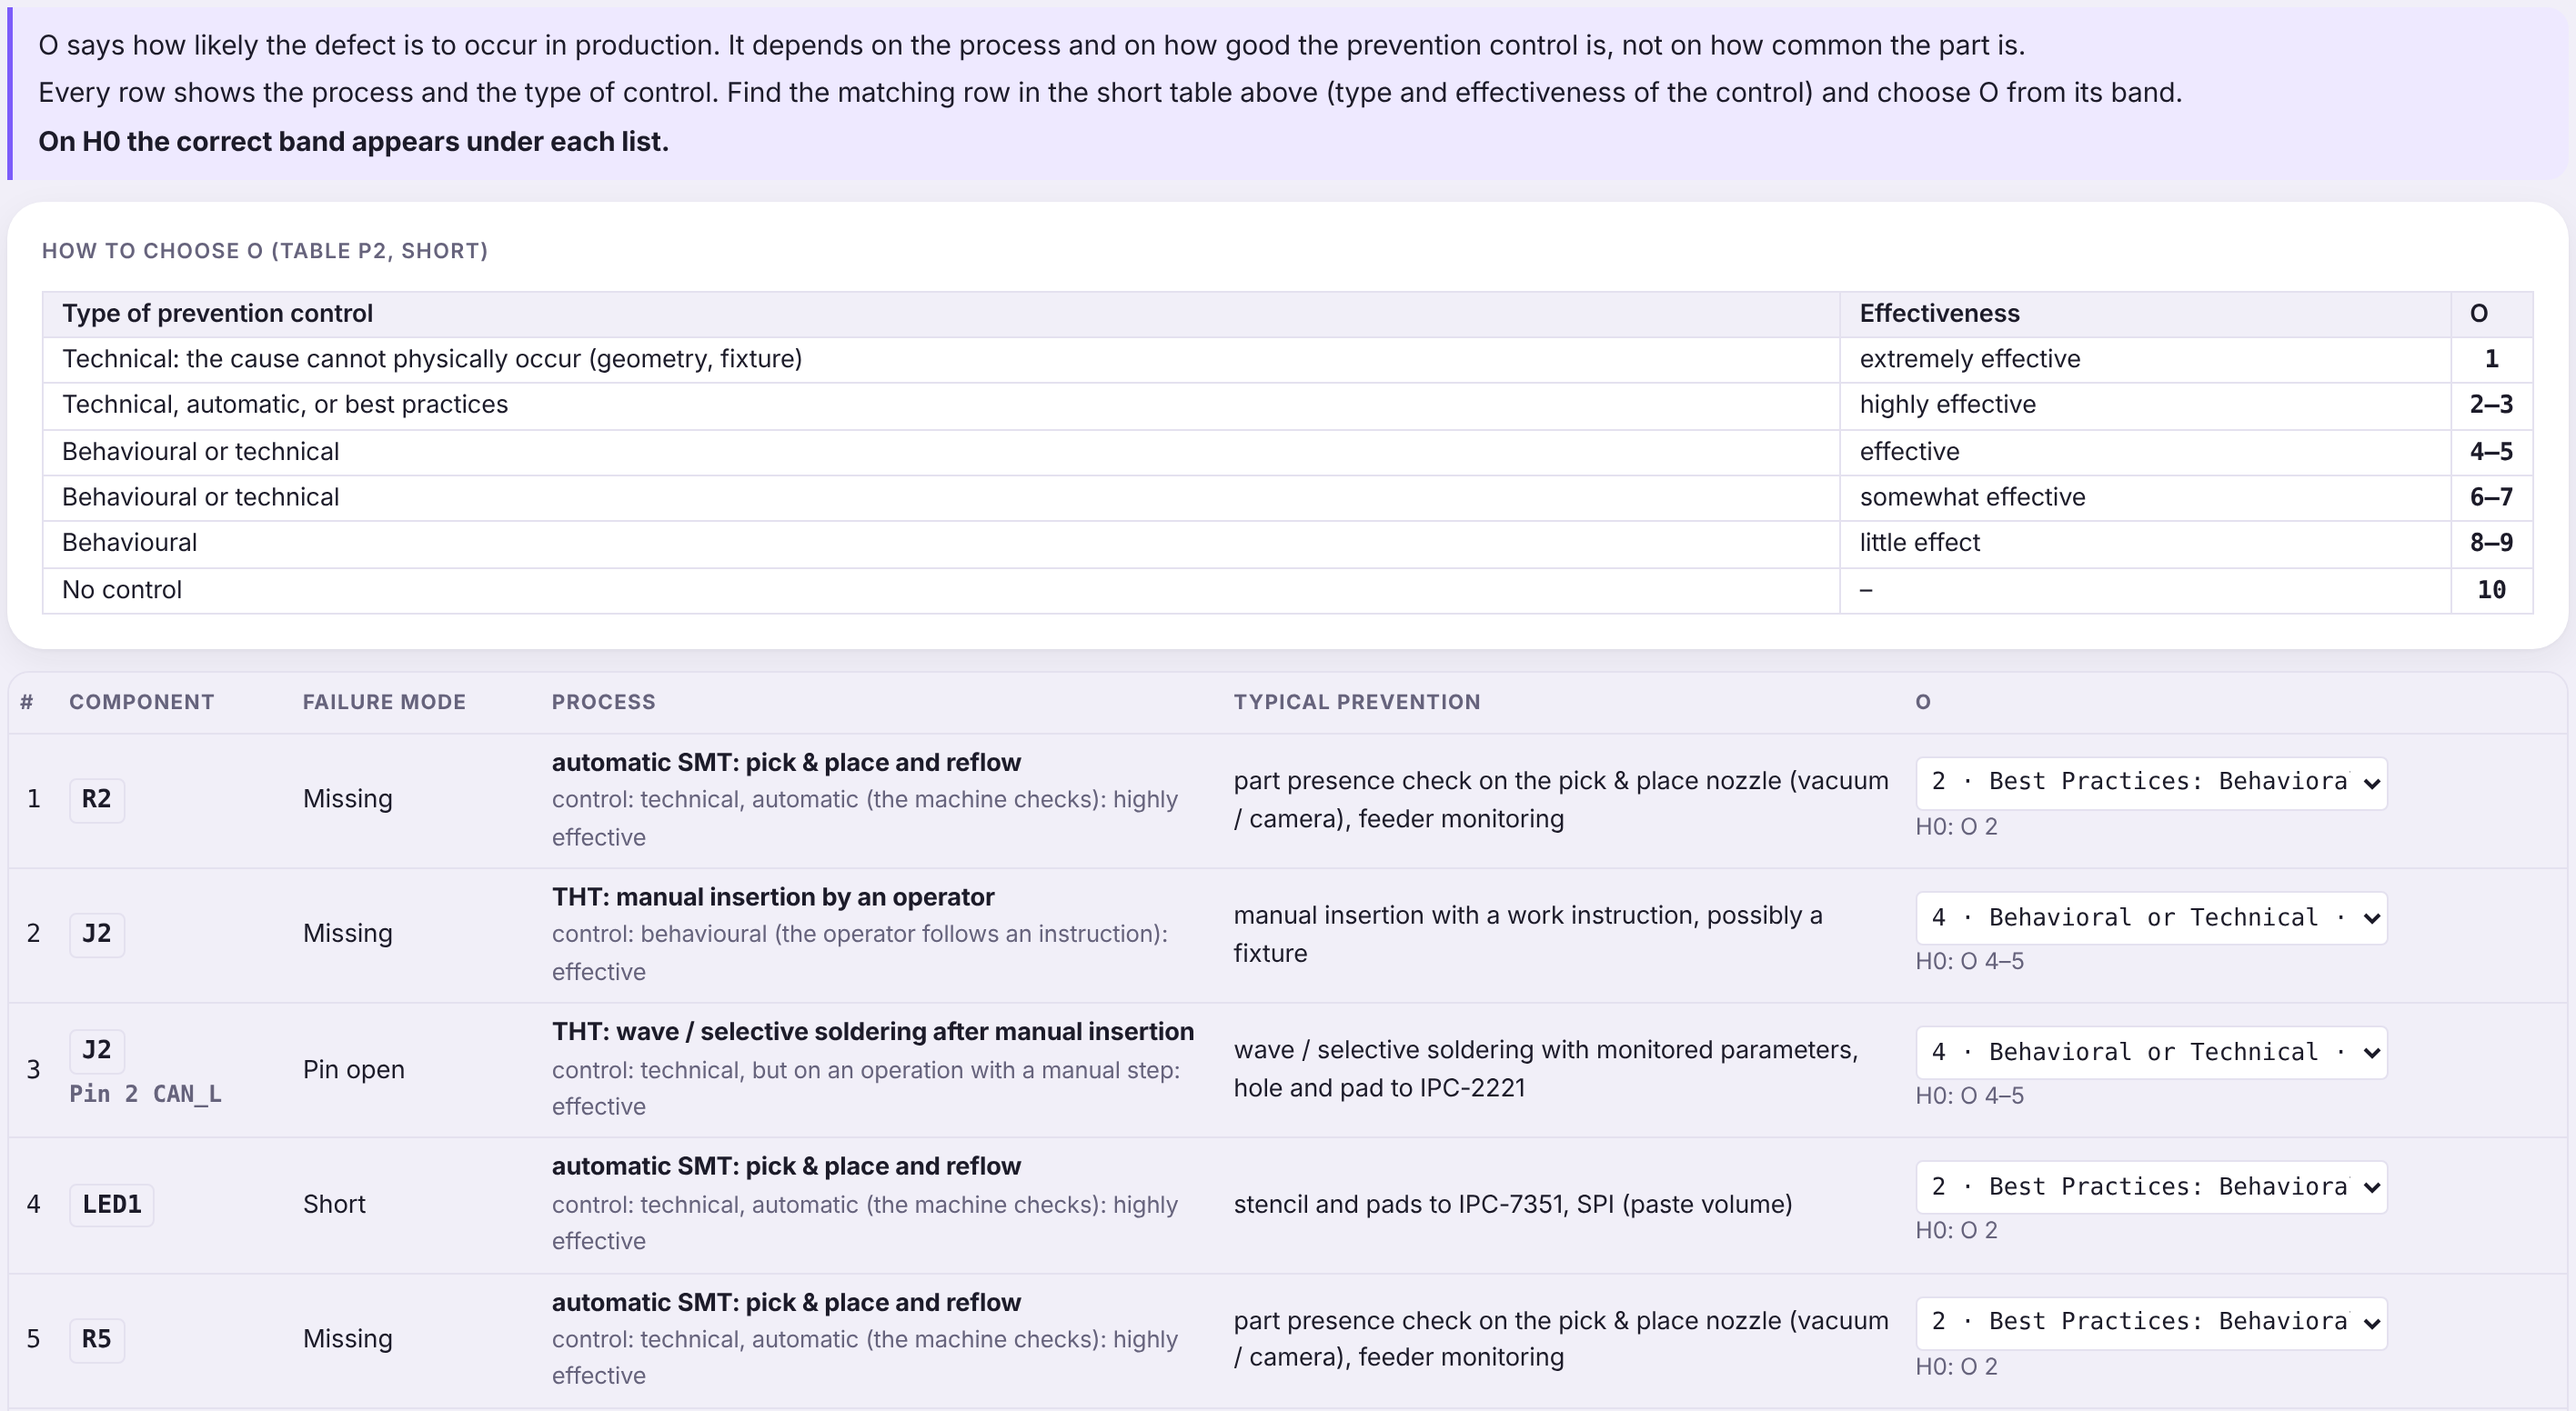
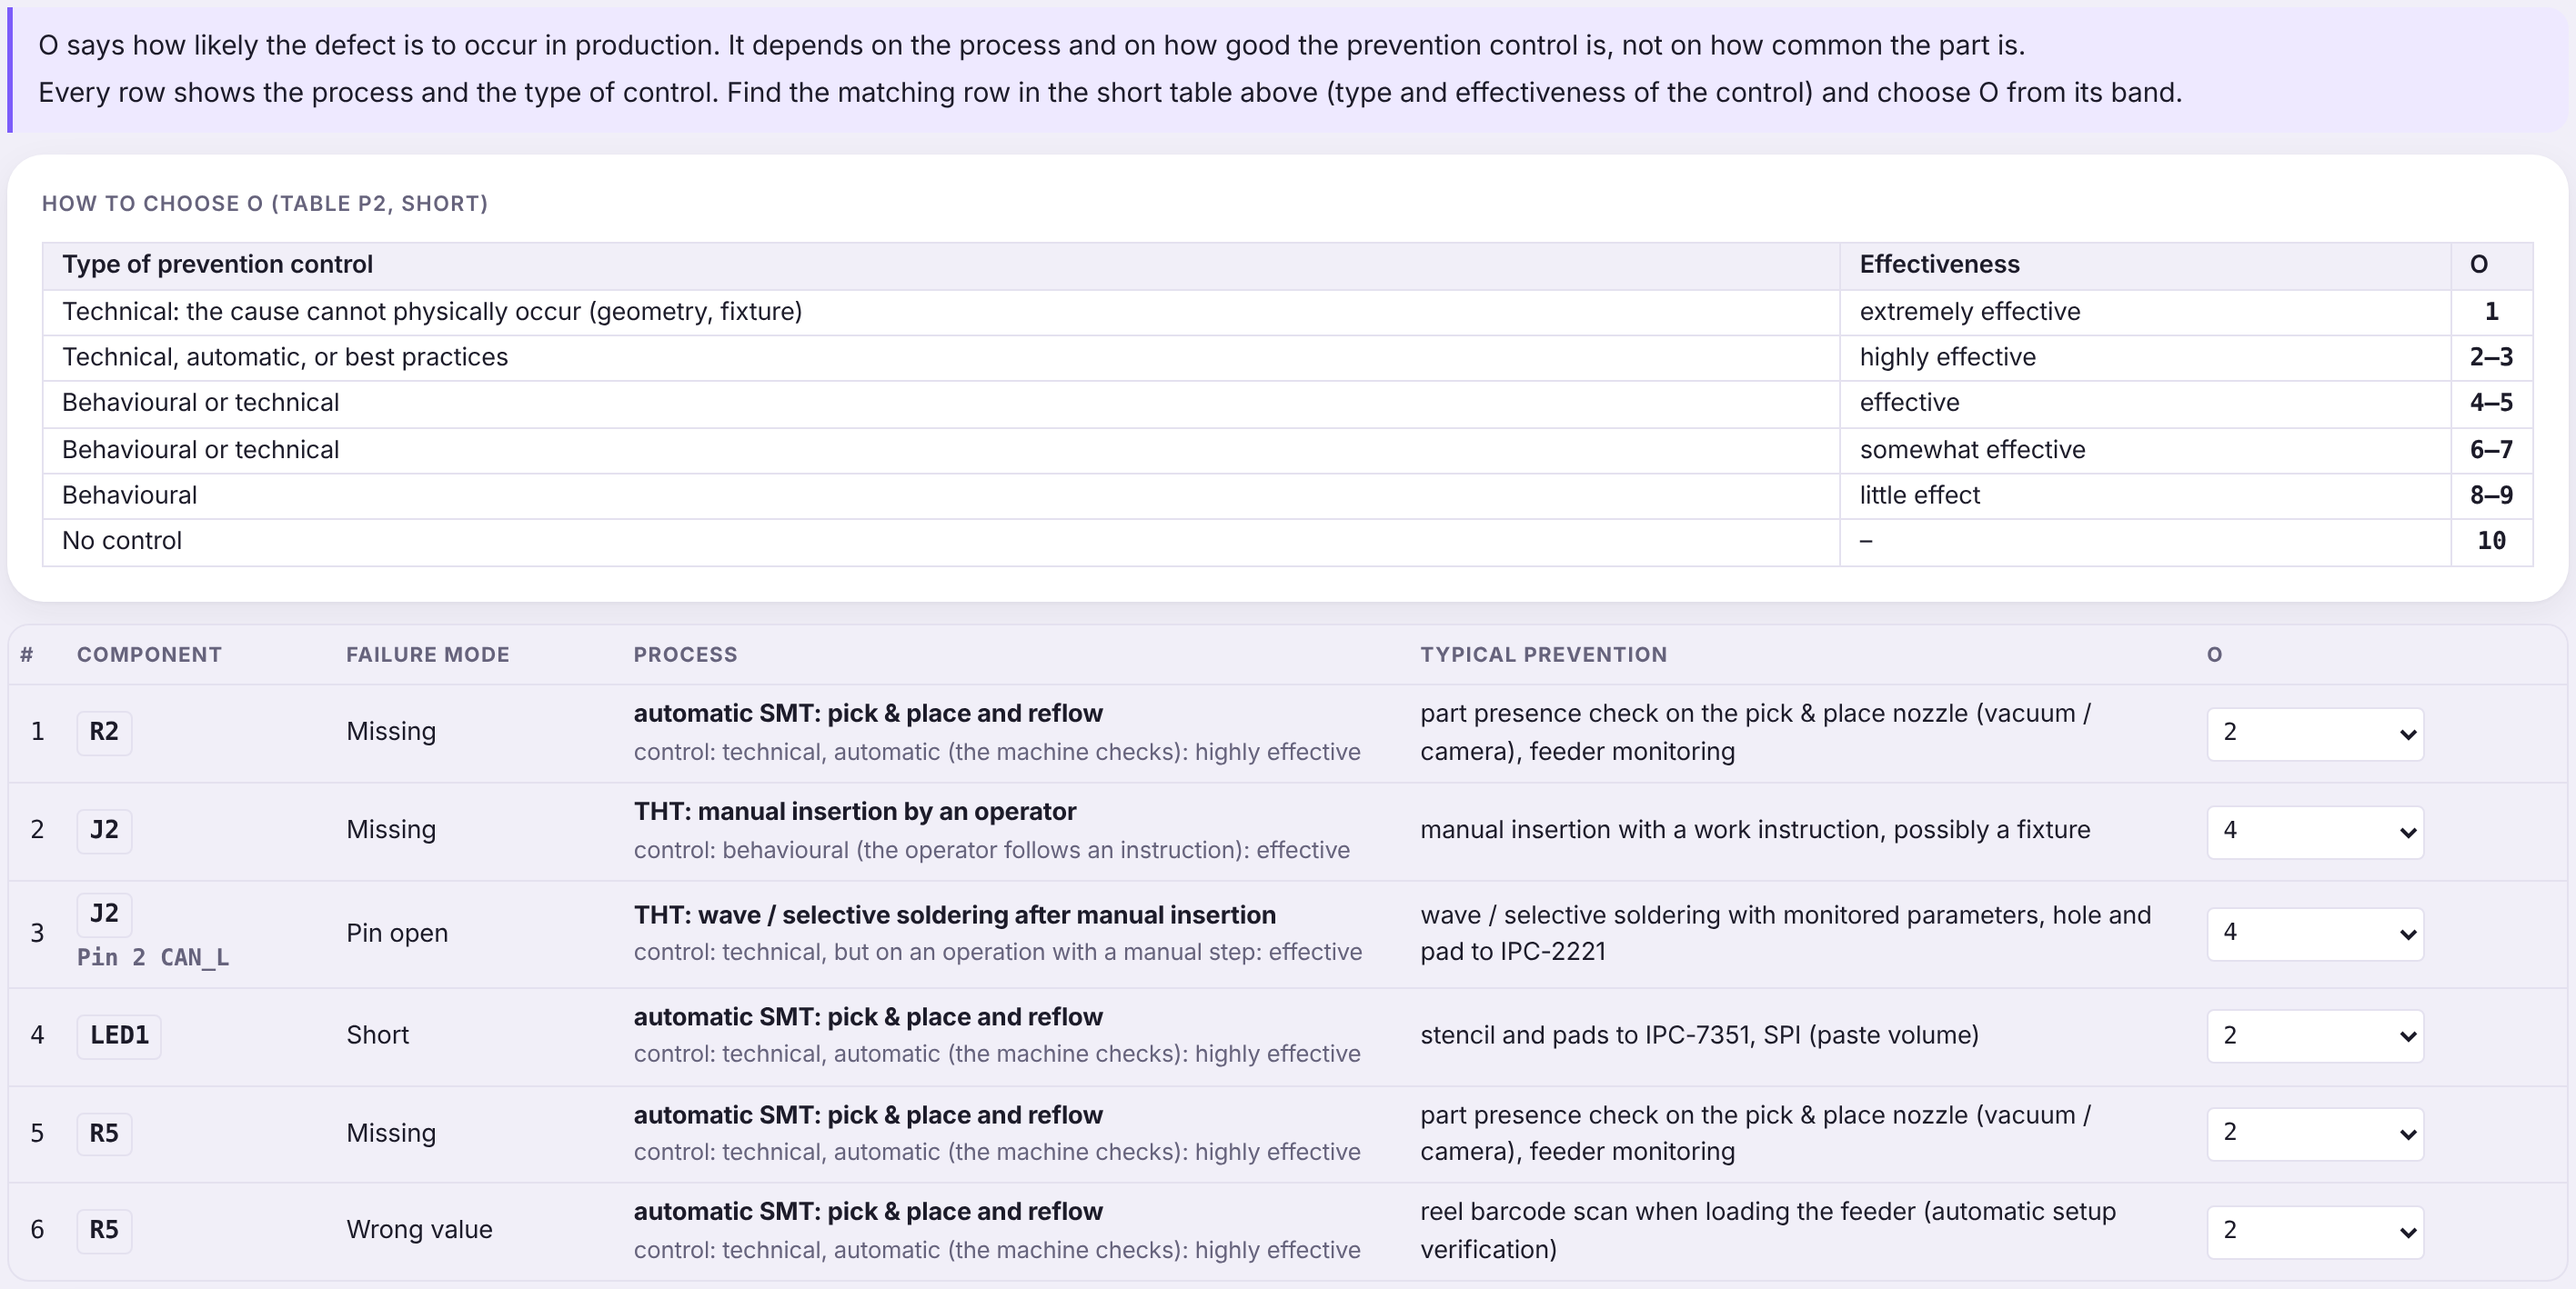
HW TCA occurrence tab: O list shows only the value, no H0 band under the list
Claude-Session: https://claude.ai/code/session_015jZV3M7jRAYSoYnq2E89o1

diff --git a/docs/hw/index.html b/docs/hw/index.html
@@ -517,7 +517,6 @@ const I18N = {
     h_s1: ["Pentru fiecare mod, citește efectul și alege clasa de efect din tabelul de clase de mai jos; S rezultă din clasă.", "Efectele EMC (filtre, decuplare) sunt E9, chiar dacă funcția nu e afectată."],
     h_s1Demo: "",
     h_s2: ["O spune cât de probabil apare defectul în producție. Depinde de proces și de cât de bun e controlul de prevenție, nu de cât de comună e piesa.", "Pe fiecare rând ai procesul și tipul controlului. Caută rândul potrivit în tabelul scurt de mai sus (tipul și eficiența controlului) și alege O din banda lui."],
-    h_s2Demo: "Pe H0, sub fiecare listă apare banda corectă.",
     h_det3: ["Aplicația calculează D pentru AOI, AXI și ICT din regulile de detecție. Sub fiecare valoare e motivul. Citește-le: nu completezi nimic aici.", "Apasă pe numele componentei ca s-o vezi pe placă și în schemă, cu net-urile ei și test point-urile."],
     h_det4: ["Pentru fiecare mod, urmărește pe placă netul pinului: dacă ajunge la un conector, testul funcțional poate vedea efectul.", "Alege din lista FT1–FT8 testul care vede efectul (sau NONE), apoi D din scala de detecție, și scrie de ce: ce măsoară testul și dacă localizează defectul."],
     h_ap: ["D este minimul metodelor, iar AP se citește din tabelul AIAG-VDA; aplicația le calculează.", "Pentru modurile cu AP H sau M, încearcă îmbunătățiri în panoul din dreapta: test point-uri, AOI pe BOTTOM, teste FT noi. Coloana „AP fără îmbun.” păstrează rezultatul inițial."],
@@ -583,7 +582,6 @@ const I18N = {
     h_s1: ["For every mode, read the effect and choose the effect class from the class table below; S follows from the class.", "EMC effects (filters, decoupling) are E9, even when the function is not affected."],
     h_s1Demo: "",
     h_s2: ["O says how likely the defect is to occur in production. It depends on the process and on how good the prevention control is, not on how common the part is.", "Every row shows the process and the type of control. Find the matching row in the short table above (type and effectiveness of the control) and choose O from its band."],
-    h_s2Demo: "On H0 the correct band appears under each list.",
     h_det3: ["The app computes D for AOI, AXI and ICT from the detection rules. The reason is under each value. Read them: you fill in nothing here.", "Click the component name to see it on the board and in the schematic, with its nets and test points."],
     h_det4: ["For every mode, follow the pin's net on the board: if it reaches a connector, the functional test can see the effect.", "Choose from the FT1–FT8 list the test that sees the effect (or NONE), then D from the detection scale, and write why: what the test measures and whether it locates the defect."],
     h_ap: ["D is the minimum over the methods, and AP is read from the AIAG-VDA table; the app computes both.", "For the modes with AP H or M, try improvements in the panel on the right: test points, AOI on BOTTOM, new FT tests. The “AP without impr.” column keeps the initial result."],
@@ -802,7 +800,7 @@ function renderAnalysis(view) {
   const now = summary(env), base = summary(ENV_BASE);
   const hasNew = (S.newTests || []).length > 0;
   const dOpts = AIAG.D.slice().reverse().map((x) => [x[0], x[0] + " · " + tr(x[1]) + (tr(x[3]) ? " · " + tr(x[3]) : "")]);
-  const oOpts = AIAG.OP.slice().reverse().map((x) => [x[0], x[0] + " · " + tr(x[2]) + " · " + tr(x[3])]);
+  const oOpts = AIAG.OP.slice().reverse().map((x) => [x[0], String(x[0])]);
   const ap = (x) => '<span class="ap ' + (x || "na") + '">' + (x || "–") + "</span>";
   const dv = (v, why) => '<span class="dv ' + (v === 1 ? "d1" : v === 10 ? "d10" : "dm") + '">' + v + "</span>" + (why ? '<span class="why">' + esc(why) + "</span>" : "");
   const sel = (i, name, opts, val, label) => '<select data-row="' + i + '" data-k="' + name + '" aria-label="' + esc(label || name) + '"' + (val ? "" : ' class="empty"') + '><option value="">' + t("choose") + "</option>" +
@@ -823,7 +821,7 @@ function renderAnalysis(view) {
     main = help("h_s2") + '<div class="panel stack"><span class="label">' + esc(t("p2Title")) + "</span>" + guide + "</div>" +
       '<div class="tablewrap"><table class="sheet stept">' + head([t("p2Proc"), t("prevTyp"), "O"]) + "<tbody>" +
       rowsData.map((x) => { const pv = prevOf(x.r.m); return "<tr>" + modeCells(x.i, x.k, x.r) + '<td class="eff"><b>' + esc(tr(pv[2])) + '</b><br><span class="muted small">' + esc(t("p2CtlShort")) + ": " + esc(tr(pv[3])) + "</span></td>" +
-        '<td class="eff small">' + esc(tr(pv[0])) + "</td><td>" + sel(x.i, "o", oOpts, x.u.o, "O") + (isDemo() ? '<div class="muted small">H0: O ' + pv[1] + "</div>" : "") + "</td></tr>"; }).join("") +
+        '<td class="eff small">' + esc(tr(pv[0])) + "</td><td>" + sel(x.i, "o", oOpts, x.u.o, "O") + "</td></tr>"; }).join("") +
       "</tbody></table></div>" + ref("occTitle", AIAG.table("OP", LANG, esc));
   } else if (tab === "det") {
     const sub = S.detSub === "ft" ? "ft" : "auto";
